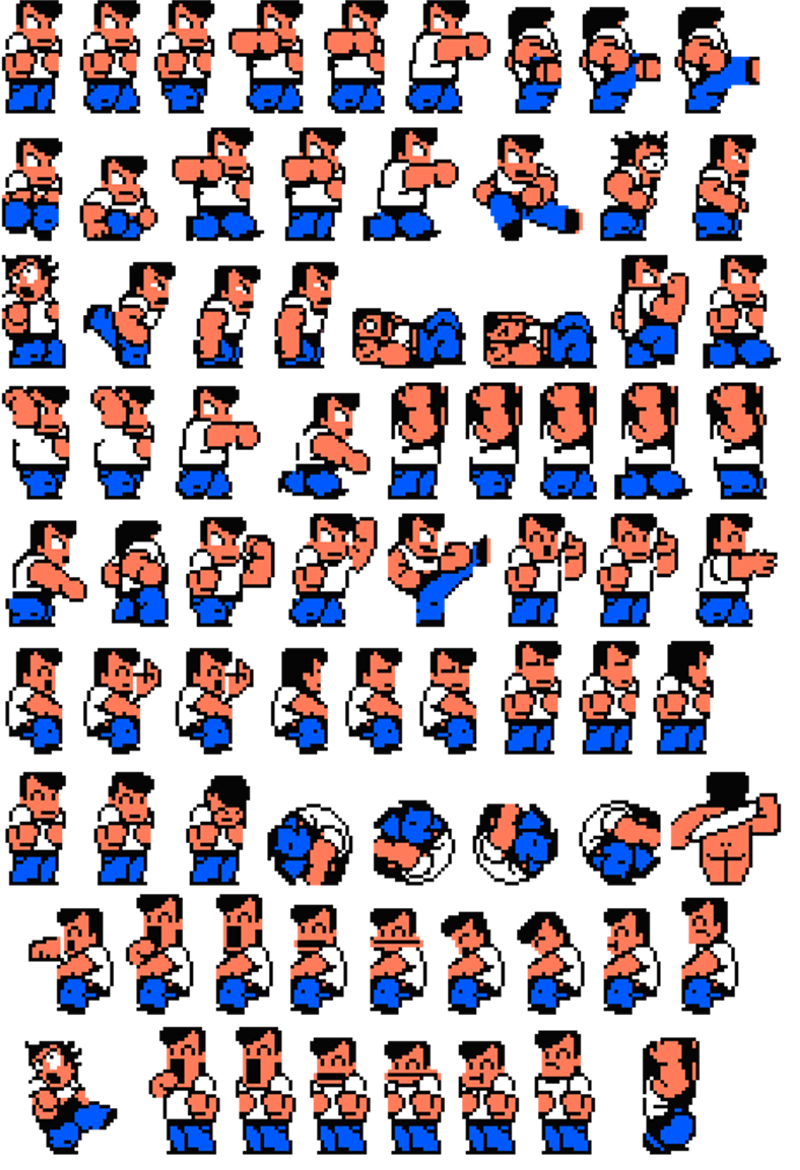
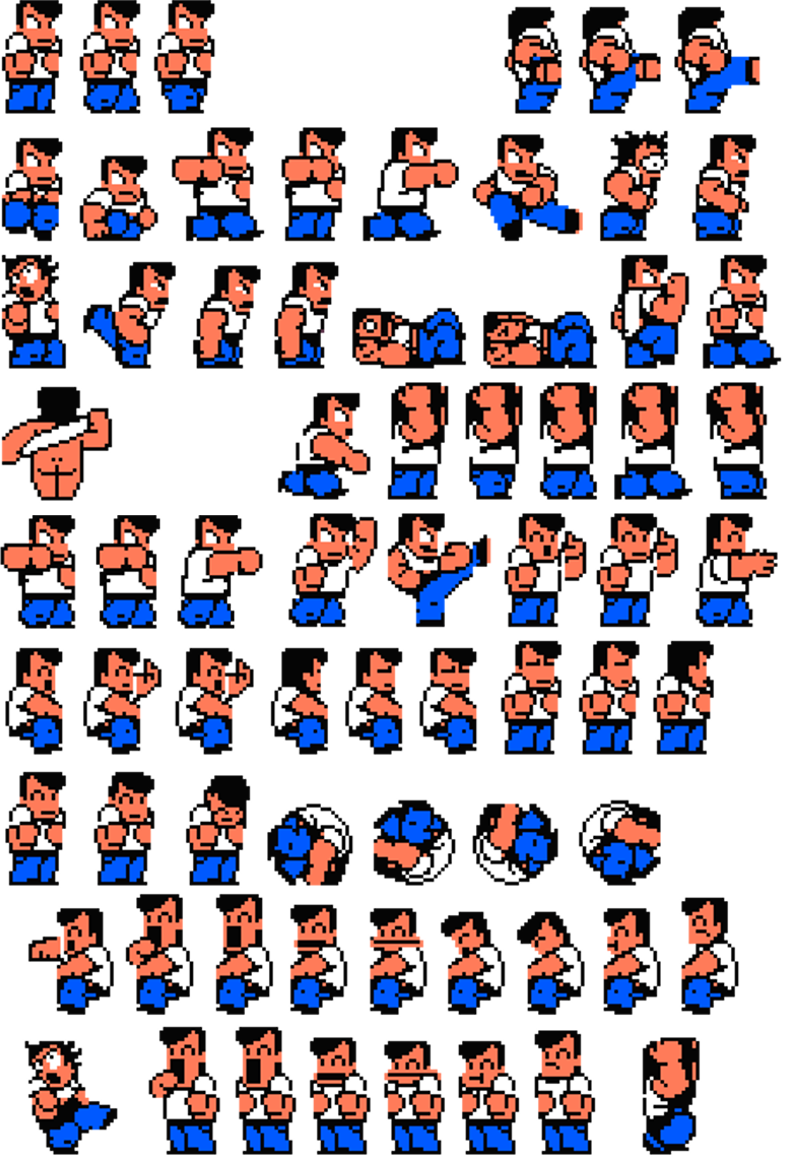
Hej, fixa bild på github :) Fixat bilder och slag
hej :)

Changed region(s): [[0.0, 0.3077, 0.3438, 0.5538], [0.2812, 0.0, 0.625, 0.1231], [0.8125, 0.6462, 1.0, 0.7692]]

diff --git a/Johnny_Punch/Johnny_Punch/Movables/Player/Player.cs b/Johnny_Punch/Johnny_Punch/Movables/Player/Player.cs
@@ -13,11 +13,13 @@ namespace Johnny_Punch
         //public int lifePoints;
         public Vector2 speed;
         public KeyboardState keyBoardState, oldKeyBoardState;
+        public bool fight, punch;
+        public double fightTime, fightingCooldown = 500;
         int yLimitUp = 335, yLimitDown = 583;
-        
-        
+
+
         public Player(Texture2D tex, Vector2 pos)
-            : base(tex,pos)
+            : base(tex, pos)
         {
             //this.tex = tex;
             this.pos = pos;
@@ -25,7 +27,7 @@ namespace Johnny_Punch
             animationBox = new Rectangle(0, 0, 75, 116);
             width /= 9;
             height /= 10;
-            
+
             this.speed = new Vector2(0, 0);
             offset = new Vector2(width / 2, height / 2);
         }
@@ -42,84 +44,144 @@ namespace Johnny_Punch
             else
                 speed.Y = 0;
 
-            boundingBox = new Rectangle((int)pos.X - width/2, (int)pos.Y - height/2, width, height);
+            boundingBox = new Rectangle((int)pos.X - width / 2, (int)pos.Y - height / 2, width, height);
             feetBox = new Rectangle((int)pos.X - (int)49, (int)pos.Y + (117 - 4) - (int)offset.Y, width, height - (height - 4));
             Moving(gameTime);
+            Fight(gameTime);
         }
 
-        private void Moving(GameTime gameTime)
+        public void Moving(GameTime gameTime)
         {
-            #region Walk Right
-            if (keyBoardState.IsKeyDown(Keys.D))
+            if (!fight)
             {
-                speed.X = 3;
-                moving = true;
-                spriteEffect = SpriteEffects.None;
-                if (keyBoardState.IsKeyDown(Keys.W) || keyBoardState.IsKeyDown(Keys.S))
-                    speed.X = 2f;
-            }
-            #endregion
-            #region Walk Left
-            if (keyBoardState.IsKeyDown(Keys.A))
-            {
-                speed.X = -3;
-                moving = true;
-                spriteEffect = SpriteEffects.FlipHorizontally;
-                if (keyBoardState.IsKeyDown(Keys.W) || keyBoardState.IsKeyDown(Keys.S))
-                    speed.X = -2f;
-            }
-            #endregion
-            #region Walk Up
-            if (keyBoardState.IsKeyDown(Keys.W) && feetBox.Y >= yLimitUp && onGround)
-            {
-                speed.Y = -3;
-                moving = true;
-                if (keyBoardState.IsKeyDown(Keys.A) || keyBoardState.IsKeyDown(Keys.D))
-                    speed.Y = -2f;
-            }
-            #endregion
-            #region Walk Down
-            if (keyBoardState.IsKeyDown(Keys.S) && feetBox.Y <= yLimitDown && onGround)
-            {
-                speed.Y = 3;
-                moving = true;
-                if (keyBoardState.IsKeyDown(Keys.A) || keyBoardState.IsKeyDown(Keys.D))
-                    speed.Y = 2f;
-            }
-            #endregion
-            #region Moving Bool
-            if (!(keyBoardState.IsKeyDown(Keys.A)) && !(keyBoardState.IsKeyDown(Keys.D)) &&
-                !(keyBoardState.IsKeyDown(Keys.W)) && !(keyBoardState.IsKeyDown(Keys.S)))
-                moving = false;
-
-            if (moving)
-                Animation(120, 3, 75, gameTime);
-            #endregion
-            #region Onground Bool and Jump
-            if (!onGround)
-            {
-                if (pos.Y >= posJump.Y)
+                #region Walk Right
+                if (keyBoardState.IsKeyDown(Keys.D))
                 {
-                    pos.Y = posJump.Y;
-                    onGround = true;
-                    speed.Y = 0;
+                    speed.X = 3;
+                    moving = true;
+                    spriteEffect = SpriteEffects.None;
+                    if (keyBoardState.IsKeyDown(Keys.W) || keyBoardState.IsKeyDown(Keys.S))
+                        speed.X = 2f;
                 }
+                #endregion
+                #region Walk Left
+                if (keyBoardState.IsKeyDown(Keys.A))
+                {
+                    speed.X = -3;
+                    moving = true;
+                    spriteEffect = SpriteEffects.FlipHorizontally;
+                    if (keyBoardState.IsKeyDown(Keys.W) || keyBoardState.IsKeyDown(Keys.S))
+                        speed.X = -2f;
+                }
+                #endregion
+                #region Walk Up
+                if (keyBoardState.IsKeyDown(Keys.W) && feetBox.Y >= yLimitUp && onGround)
+                {
+                    speed.Y = -3;
+                    moving = true;
+                    if (keyBoardState.IsKeyDown(Keys.A) || keyBoardState.IsKeyDown(Keys.D))
+                        speed.Y = -2f;
+                }
+                #endregion
+                #region Walk Down
+                if (keyBoardState.IsKeyDown(Keys.S) && feetBox.Y <= yLimitDown && onGround)
+                {
+                    speed.Y = 3;
+                    moving = true;
+                    if (keyBoardState.IsKeyDown(Keys.A) || keyBoardState.IsKeyDown(Keys.D))
+                        speed.Y = 2f;
+                }
+                #endregion
+                #region Moving Bool
+                if (!(keyBoardState.IsKeyDown(Keys.A)) && !(keyBoardState.IsKeyDown(Keys.D)) &&
+                    !(keyBoardState.IsKeyDown(Keys.W)) && !(keyBoardState.IsKeyDown(Keys.S)))
+                {
+                    moving = false;
+                }
+                if (moving && onGround)
+                {
+                    animationBox.Width = 75;
+                    animationBox.Y = 0;
+                    Animation(120, 3, 75, gameTime);
+                }
+                else if (!moving && onGround && !fight)
+                {
+                    animationBox.Width = 75;
+                    animationBox.X = 0;
+                    animationBox.Y = 0;
+                    //Animation(120, 1, 75, gameTime);
+                }
+
+                #endregion
+                #region Onground Bool and Jump
+                if (!onGround)
+                {
+                    animationBox.Width = 75;
+                    animationBox.Y = 116;
+                    animationBox.X = 0;
+                    //Animation(120, 1, 75, gameTime);
+                    if (pos.Y >= posJump.Y)
+                    {
+                        pos.Y = posJump.Y;
+                        onGround = true;
+                        speed.Y = 0;
+                    }
+                }
+                //if (onGround)
+                //    animationBox.Y = 0;
+                if (keyBoardState.IsKeyDown(Keys.Space) && oldKeyBoardState.IsKeyDown(Keys.Space) && onGround)
+                {
+                    posJump.Y = pos.Y;
+                    speed.Y = -3.2f;
+                    onGround = false;
+                }
+                #endregion
             }
-            if (keyBoardState.IsKeyDown(Keys.Space) && oldKeyBoardState.IsKeyDown(Keys.Space) && onGround)
-            {
-                posJump.Y = pos.Y;
-                speed.Y = -3.2f;
-                onGround = false;
-            }
-            #endregion
 
         }
+
+        public void Fight(GameTime gameTime)
+        {
+            if (fight)
+            {
+                fightTime += gameTime.ElapsedGameTime.TotalMilliseconds;
+            }
+            else
+            {
+                fightTime = 0;
+                fightingCooldown += gameTime.ElapsedGameTime.TotalMilliseconds;
+            }
+
+            #region StandardHit
+            if (fightingCooldown >= 500 && keyBoardState.IsKeyDown(Keys.K) && !fight && onGround)
+            {
+                moving = false;
+                fight = true;
+                punch = true;
+                fightingCooldown = 0;
+            }
+            if (punch)
+            {
+                animationBox.Width = 90;
+                animationBox.Y = 514;
+                Animation(120, 3, 87, gameTime);
+            }
+            if (punch && fightTime >= 380)
+            {
+                fight = false;
+                punch = false;
+            }
+
+            #endregion
+            Console.WriteLine(frameTime);
+        }
+
         public override void Draw(SpriteBatch spriteBatch)
         {
-                spriteBatch.Draw(tex, pos, animationBox, Color.White, 0f, new Vector2(49, 59.5f), 1f, spriteEffect, 0f);
+            spriteBatch.Draw(tex, pos, animationBox, Color.White, 0f, new Vector2(49, 59.5f), 1f, spriteEffect, 0f);
 
-                spriteBatch.Draw(tex, feetBox, Color.Red);
-                //spriteBatch.Draw(tex, boundingBox, Color.Red);
+            spriteBatch.Draw(tex, feetBox, Color.Red);
+            //spriteBatch.Draw(tex, boundingBox, Color.Red);
         }
         public Vector2 GetPos
         {
@@ -136,6 +198,6 @@ namespace Johnny_Punch
                 return boundingBox;
             }
         }
-        
+
     }
 }

diff --git a/Johnny_Punch/Johnny_Punch/Movables/Enemy/Enemy.cs b/Johnny_Punch/Johnny_Punch/Movables/Enemy/Enemy.cs
@@ -37,7 +37,7 @@ namespace Johnny_Punch
         public void Aggro(Player player)
         {
             angryFace = false;
-            if (Vector2.Distance(pos, player.pos) < aggroRadius && Vector2.Distance(pos, player.pos) > 90)
+            if (Vector2.Distance(pos, player.pos) < aggroRadius && Vector2.Distance(pos, player.pos) > 90 /* && står i samma Y-led */)
             {
                 Vector2 direction = new Vector2(player.pos.X, player.pos.Y) - this.pos;
                 direction.Normalize();

diff --git a/Johnny_Punch/Johnny_Punch/Movables.cs b/Johnny_Punch/Johnny_Punch/Movables.cs
@@ -42,6 +42,7 @@ namespace Johnny_Punch
                 frame++;
                 animationBox.X = (frame % animationLength) * animationWidth;
             }
+            
         }
     }
 }
